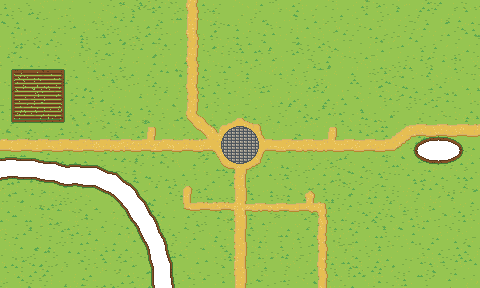
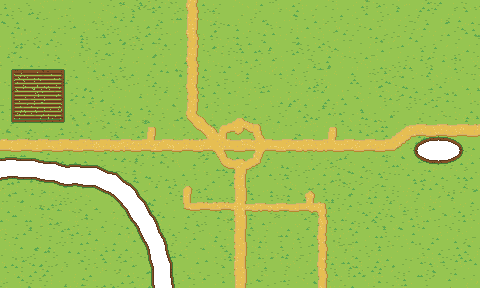
[office-fix] Town Office gets a hip roof and tower peak, no stone disc under the fountain, edge pine on the map
The office sprite was cut off at its flat roof edge: it grows 8 rows (68x50) with straight 2 px/row teal hips rising to a brown ridge line, and the clock tower continues up through the ridge as a small cap with a vent window. Its base stays put (y 76); the clock hand follows. The roof peak now uses the last clearance row at 180-row viewports, so ROOF_CLEARANCE is 0 and the badge hangs over the roof (BADGE_GAP -14) where it clears the HUD, 2 px bob included. roads.mjs returns the old stone disc under the fountain to grass so only the sprite's own oval base shows. The pine at the right map edge moves 2 px in; a unit test keeps every prop 2 px inside the map, and the browser test adds 2000x1100 and 2560x1440 plus office-under-HUD and hover-frame-in-viewport checks.

Changed region(s): [[0.4375, 0.4375, 0.5625, 0.5625]]

diff --git a/src/game/world/layout.ts b/src/game/world/layout.ts
@@ -11,14 +11,18 @@ export interface PlacedSprite { sprite: SpriteName; x: number; y: number; animat
 
 export const BUILDING_LAYOUT: Record<BuildingId, { x: number; y: number }> = {
   bank: { x: 115, y: 84 },
-  office: { x: 205, y: 84 },
+  office: { x: 205, y: 76 },
   hospital: { x: 295, y: 87 },
   home: { x: 151, y: 148 },
   market: { x: 259, y: 150 },
 }
 
-/** Clearance between the HUD's bottom edge and the highest roof, art px (plus the 1 px hover lift). */
-export const ROOF_CLEARANCE = 8
+/**
+ * Clearance between the HUD's bottom edge and the highest roof, art px, on top of the 1 px hover lift. Zero: at a
+ * 180-row viewport the Town Office's tower peak, the plaza and the bottom row's plaques use every row between the
+ * HUD and the control bar.
+ */
+export const ROOF_CLEARANCE = 0
 /**
  * The map row that sits at the top of the viewport when the viewport is the shortest it can be (the 180-row core).
  * Centred on the core normally; moved up (showing less of the ring above the town) when the HUD would otherwise
@@ -70,7 +74,7 @@ export const RING_PROPS: PlacedSprite[] = [
   lily(10, 163), lily(36, 167), lily(62, 171),
   pine(60, 204), pine(40, 222), tree(8, 232), rock(68, 236), pine(64, 250),
   // Right: a well, pines, and the pond (water x 418–460, y 141–161) with rocks and a bench.
-  { sprite: 'world/extra/well', x: 404, y: 62 }, tree(440, 60), pine(462, 70), pine(404, 86), tree(452, 100),
+  { sprite: 'world/extra/well', x: 404, y: 62 }, tree(440, 60), pine(460, 70), pine(404, 86), tree(452, 100),
   { sprite: 'world/props/bench', x: 426, y: 166 }, { sprite: 'world/extra/signpost', x: 468, y: 138 },
   rock(400, 150), rock(436, 112), rock(408, 160), rock(458, 164), lily(430, 146), lily(444, 150),
   bush(460, 170), pine(404, 176), pine(456, 186), tree(430, 200), { sprite: 'world/extra/stump', x: 412, y: 214 },
@@ -91,11 +95,15 @@ export const SMOKE: { x: number; y: number }[] = [
 
 export const LAMP = { x: 178, y: 118 }
 
-/** Art px between the bottom of a "decision waiting" badge and the top of its building's sprite. */
-export const BADGE_GAP = 3
+/**
+ * Art px between the bottom of a "decision waiting" badge and the top of its building's sprite. Negative: the badge
+ * hangs over the roof peak (its bottom 14 px below the sprite top), so even above the Town Office, whose peak sits
+ * right under the HUD at a 180-row viewport, the whole badge (2 px bob included) stays clear of the HUD.
+ */
+export const BADGE_GAP = -14
 
-/** The Town Office clock hand: sprite top-left relative to the office sprite (face centre at 34,11 in office.txt). */
-export const CLOCK = { sprite: 'world/extra/clock-hand' as const, x: 31, y: 8 }
+/** The Town Office clock hand: sprite top-left relative to the office sprite (face centre at 34,19 in office.txt). */
+export const CLOCK = { sprite: 'world/extra/clock-hand' as const, x: 31, y: 16 }
 
 /**
  * Villagers walk their route once (feet positions, map px; the sprite's anchor is its feet), then vanish at the last

diff --git a/tests/world.browser.ts b/tests/world.browser.ts
@@ -3,7 +3,7 @@ import { openTitle, startStory } from './helpers'
 
 // OWNER: Agent 1 (world). The town stage at laptop sizes: integer zoom, no page scroll, art loaded, hover and keyboard.
 
-for (const [width, height, px] of [[1280, 720, 4], [1366, 768, 4], [1440, 900, 4], [1920, 1080, 6]] as const) {
+for (const [width, height, px] of [[1280, 720, 4], [1366, 768, 4], [1440, 900, 4], [1920, 1080, 6], [2000, 1100, 6], [2560, 1440, 8]] as const) {
   test(`town world fits ${width}x${height} at ${px}x zoom`, async ({ page }, testInfo) => {
     test.skip(testInfo.project.name === 'mobile', 'laptop sizes only')
     const errors: string[] = []
@@ -29,7 +29,7 @@ for (const [width, height, px] of [[1280, 720, 4], [1366, 768, 4], [1440, 900, 4
     expect(art.count).toBeGreaterThan(8)
     expect(art.allLoaded).toBe(true)
 
-    if (width === 1280 || width === 1440) await page.screenshot({ path: `docs/screenshots/world-${width}.png` })
+    if (width === 1280 || width === 1440 || width === 2000) await page.screenshot({ path: `docs/screenshots/world-${width}.png` })
 
     // The HUD never covers a roof: every building (hover frame included) starts below the HUD's bottom edge, and
     // the bottom row's plaques stay above the control bar.
@@ -40,6 +40,24 @@ for (const [width, height, px] of [[1280, 720, 4], [1366, 768, 4], [1440, 900, 4
       expect(box.y - px, `${id} roof under the HUD`).toBeGreaterThanOrEqual(hud.y + hud.height)
       expect(box.y + box.height + 9 * px, `${id} plaque under the control bar`).toBeLessThanOrEqual(bar.y)
     }
+    // The Town Office's new tower peak is the highest point of the town: at least 2 css px below the HUD, and its
+    // hover frame and any "decision waiting" badge above it stay inside the viewport.
+    const office = page.locator('.fv-building[data-building=office]')
+    const officeBox = (await office.boundingBox())!
+    expect(officeBox.y, 'office peak under the HUD').toBeGreaterThanOrEqual(hud.y + hud.height + 2)
+    await office.hover()
+    const frame = (await office.locator('.fv-building__hover').boundingBox())!
+    expect(frame.y).toBeGreaterThanOrEqual(0)
+    expect(frame.y + frame.height).toBeLessThanOrEqual(height)
+    expect(frame.x >= 0 && frame.x + frame.width <= width).toBe(true)
+    const officeBadge = page.locator('.fv-badge[data-badge=office]')
+    if (await officeBadge.count()) {
+      const badge = (await officeBadge.boundingBox())!
+      expect(badge.y, 'office badge under the HUD').toBeGreaterThanOrEqual(hud.y + hud.height)
+      expect(badge.y + badge.height).toBeLessThanOrEqual(height)
+    }
+    await page.mouse.move(0, height - 1)
+
     const bank = page.getByRole('button', { name: /Open Pine Bank/ })
     await expect(bank.locator('.fv-building__hover')).toBeHidden()
     await bank.hover()

diff --git a/src/game/world/TownWorld.test.tsx b/src/game/world/TownWorld.test.tsx
@@ -175,7 +175,26 @@ describe('TownWorld', () => {
       expect(b.y - 1, `${id} roof under the HUD`).toBeGreaterThanOrEqual(hudBottom + ROOF_CLEARANCE)
       expect(b.y + m.h + 9, `${id} plaque under the control bar`).toBeLessThanOrEqual(barTop)
     }
-    expect(BUILDING_LAYOUT.office.y - BADGE_GAP - SPRITES['world/fx/badge'].h, 'office badge mostly under the HUD').toBeGreaterThanOrEqual(hudBottom - 7)
+    // The badge bobs up 2 px; even then it stays clear of the HUD above every building.
+    for (const id of BUILDING_IDS) expect(BUILDING_LAYOUT[id].y - BADGE_GAP - SPRITES['world/fx/badge'].h - 2, `${id} badge under the HUD`).toBeGreaterThanOrEqual(hudBottom)
+  })
+
+  it('keeps every prop sprite fully on the map, 2 px in from its edges', () => {
+    for (const p of PROPS) {
+      const { w, h } = SPRITES[p.sprite]
+      expect(p.x >= 2 && p.y >= 2 && p.x + w <= MAP_W - 2 && p.y + h <= MAP_H - 2, `${p.sprite} at ${p.x},${p.y} (${w}x${h}) is clipped by the map edge`).toBe(true)
+    }
+  })
+
+  it('draws the Town Office with a roof peak above its clock tower, and the clock on the tower face', () => {
+    const rows = readFileSync('art-src/world/buildings/office.txt', 'utf8').split('\n').filter((l) => /^[.A-Za-z0-9]{68}$/.test(l))
+    const m = SPRITES['world/buildings/office']
+    expect(rows).toHaveLength(m.h)
+    const width = (y: number) => rows[y]!.replace(/^\.+|\.+$/g, '').length
+    expect(width(1)).toBeLessThanOrEqual(5) // tower peak
+    for (let y = 2; y <= 9; y++) expect(width(y), `row ${y} narrows towards the peak`).toBeGreaterThan(width(y - 1))
+    expect(width(9)).toBe(60) // the eaves: the full roof width from the original drawing
+    expect(rows[CLOCK.y + 3]![CLOCK.x + 3]).toBe('S') // the hand pivot pin drawn at the face centre
   })
 
   it('centres each badge above its building, above every prop, exactly once per marked building', () => {

diff --git a/src/game/art/manifest.ts b/src/game/art/manifest.ts
@@ -1149,7 +1149,7 @@ const sprites = {
   "world/buildings/office": {
     "src": "/art/world/buildings/office.png",
     "w": 68,
-    "h": 42,
+    "h": 50,
     "frames": [
       "0",
       "hover",
@@ -1158,7 +1158,7 @@ const sprites = {
     ],
     "anchor": [
       34,
-      41
+      49
     ]
   },
   "world/extra/clock-hand": {
